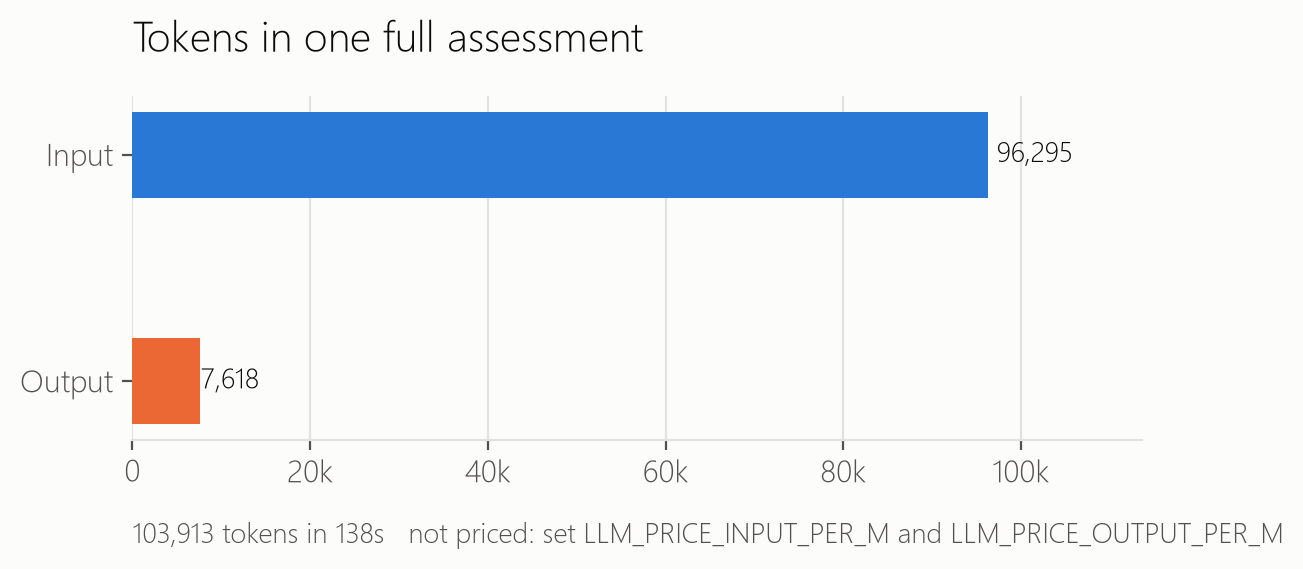
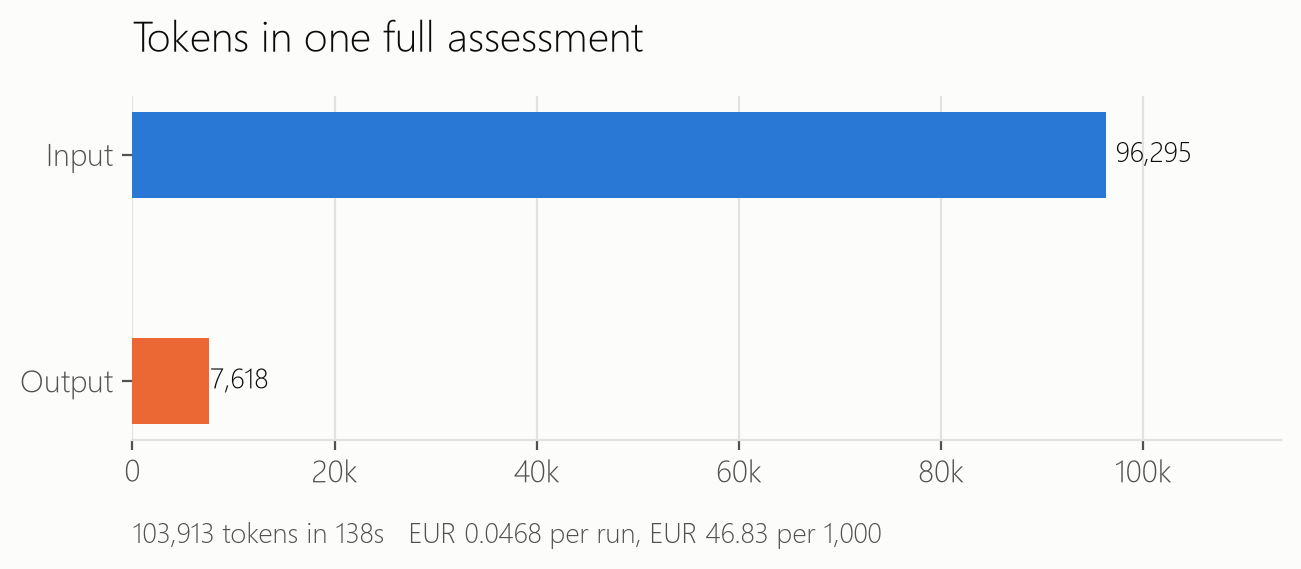
HACKATHON_2: deploy fixes and env cleanup
Compose project name pinned, --project-directory corrected to
deployment/, shell scripts normalised to LF with a test that keeps them
that way, and .env.example brought back in step with what the code
reads. Verified by running deploy.sh end to end: API healthy on 8020,
domain vendor_risk, 8 tools, MCP over http.

diff --git a/HACKATHON_2/tests/test_layout.py b/HACKATHON_2/tests/test_layout.py
@@ -145,3 +145,32 @@ def test_the_ci_workflow_validates_the_moved_stack():
     text = (ROOT / ".github" / "workflows" / "ci.yml").read_text(encoding="utf-8")
     for match in re.findall(r"-f (\S+\.ya?ml)", text):
         assert (ROOT / match).is_file(), f"CI references {match}, which does not exist"
+
+
+# ---------------------------------------------------- shell scripts are LF ---
+
+
+def test_shell_scripts_have_unix_line_endings():
+    """A CR in a shell script breaks it on Linux, and the error blames the wrong line.
+
+    `deploy.sh` was rewritten by a tool that used the platform default newline,
+    so every line gained a CR. bash then read `case "$OSTYPE" in\r` and reported
+    a syntax error at a line that was perfectly correct, because the CR is
+    invisible in most editors and in Git Bash's own grep.
+
+    `.gitattributes` sets `eol=lf`, but that governs what GIT writes. Anything
+    that edits a file directly bypasses it, which is exactly what happened.
+    These scripts run inside WSL and inside the container, so LF is not a
+    preference here, it is a requirement.
+    """
+    root = Path(__file__).resolve().parents[1]
+    offenders = [
+        path.relative_to(root).as_posix()
+        for path in sorted(root.glob("scripts/*.sh")) + sorted(root.glob("deployment/**/*.sh"))
+        if b"\r" in path.read_bytes()
+    ]
+
+    assert not offenders, (
+        f"CRLF line endings in {offenders}. bash will fail on these with a "
+        f"syntax error pointing at the wrong line. Fix: sed -i 's/\r$//' <file>"
+    )

diff --git a/HACKATHON_2/src/evaluation/charts.py b/HACKATHON_2/src/evaluation/charts.py
@@ -330,7 +330,15 @@ def run_cost(domain: str = "sample_policy") -> Path | None:
     # The euro figure is a SUBTITLE, not a bar. It is derived from the tokens
     # already plotted, so drawing it again would say the same thing twice, and
     # it is absent whenever no rate is configured rather than shown as zero.
-    cost = row.get("cost_eur")
+    # Prefer a cost computed NOW over one frozen into the ledger. Token counts
+    # are a measurement and never change; a rate is a fact about the world that
+    # does. Recomputing at render time means updating .env re-prices every past
+    # run, instead of leaving old rows quoting a rate that has since moved.
+    from evaluation.usage import Usage
+
+    cost = Usage(input_tokens=tokens_in, output_tokens=tokens_out).cost()
+    if cost is None:
+        cost = row.get("cost_eur")
     seconds = row.get("seconds")
     caption = f"{tokens_in + tokens_out:,.0f} tokens"
     if seconds:

diff --git a/HACKATHON_2/src/evaluation/usage.py b/HACKATHON_2/src/evaluation/usage.py
@@ -39,6 +39,11 @@ import time
 from dataclasses import dataclass, field
 from typing import Any
 
+# Importing for the side effect: llm.py holds the only load_dotenv() in the
+# codebase. Without it `charts.py` reads an unloaded environment, finds no
+# rate, and renders "not priced" against a .env that sets one.
+import agentcore.llm  # noqa: F401
+
 # Defaults are DELIBERATELY absent. A plausible looking rate for a model nobody
 # checked is worse than no rate, because it produces a number that survives
 # into a slide unchallenged.
